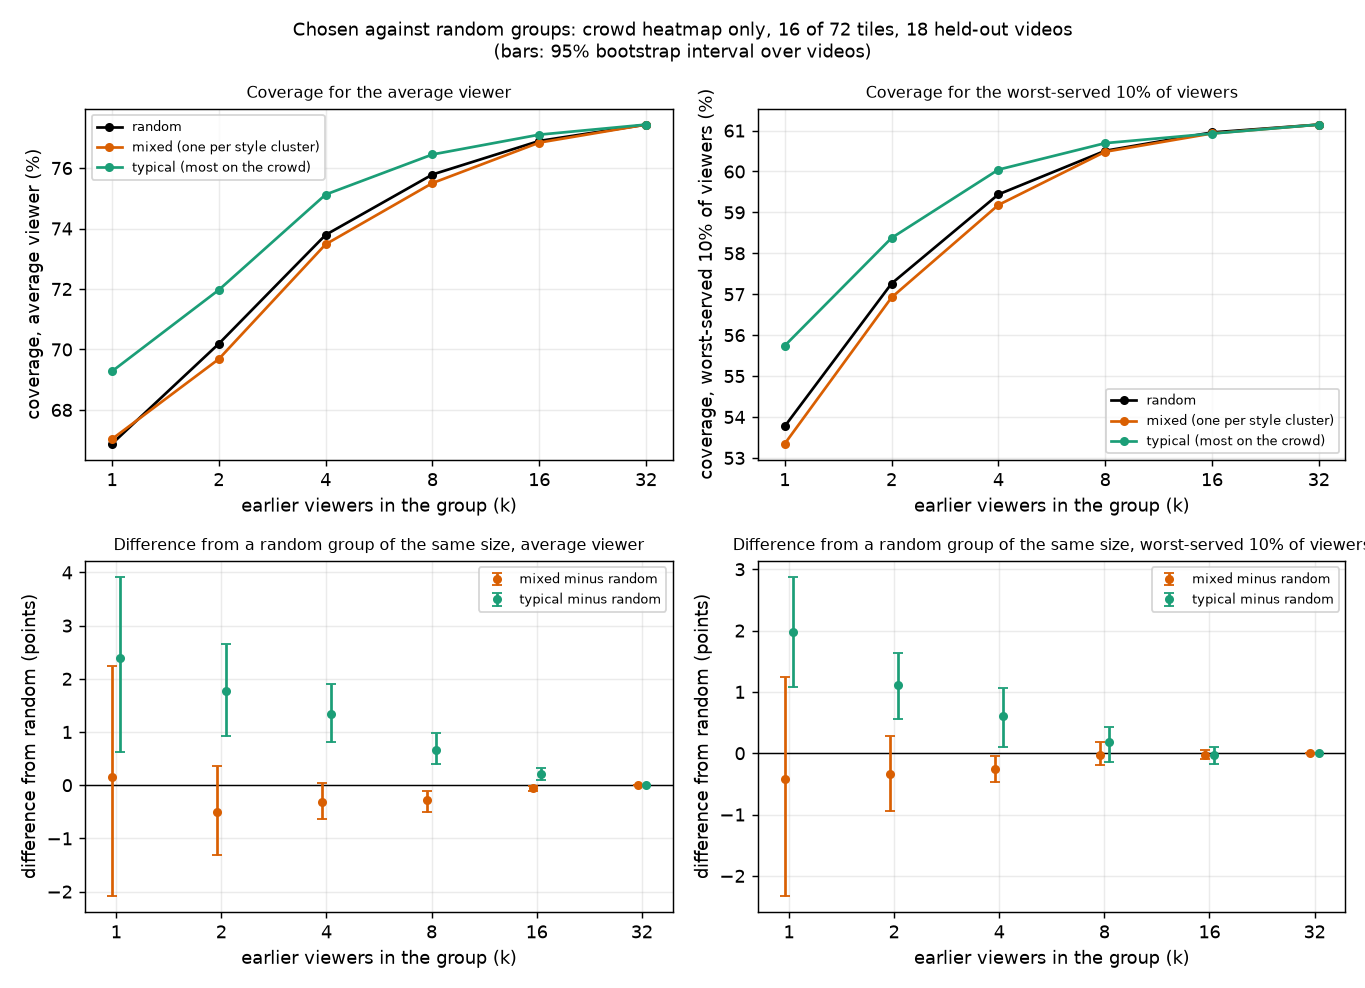
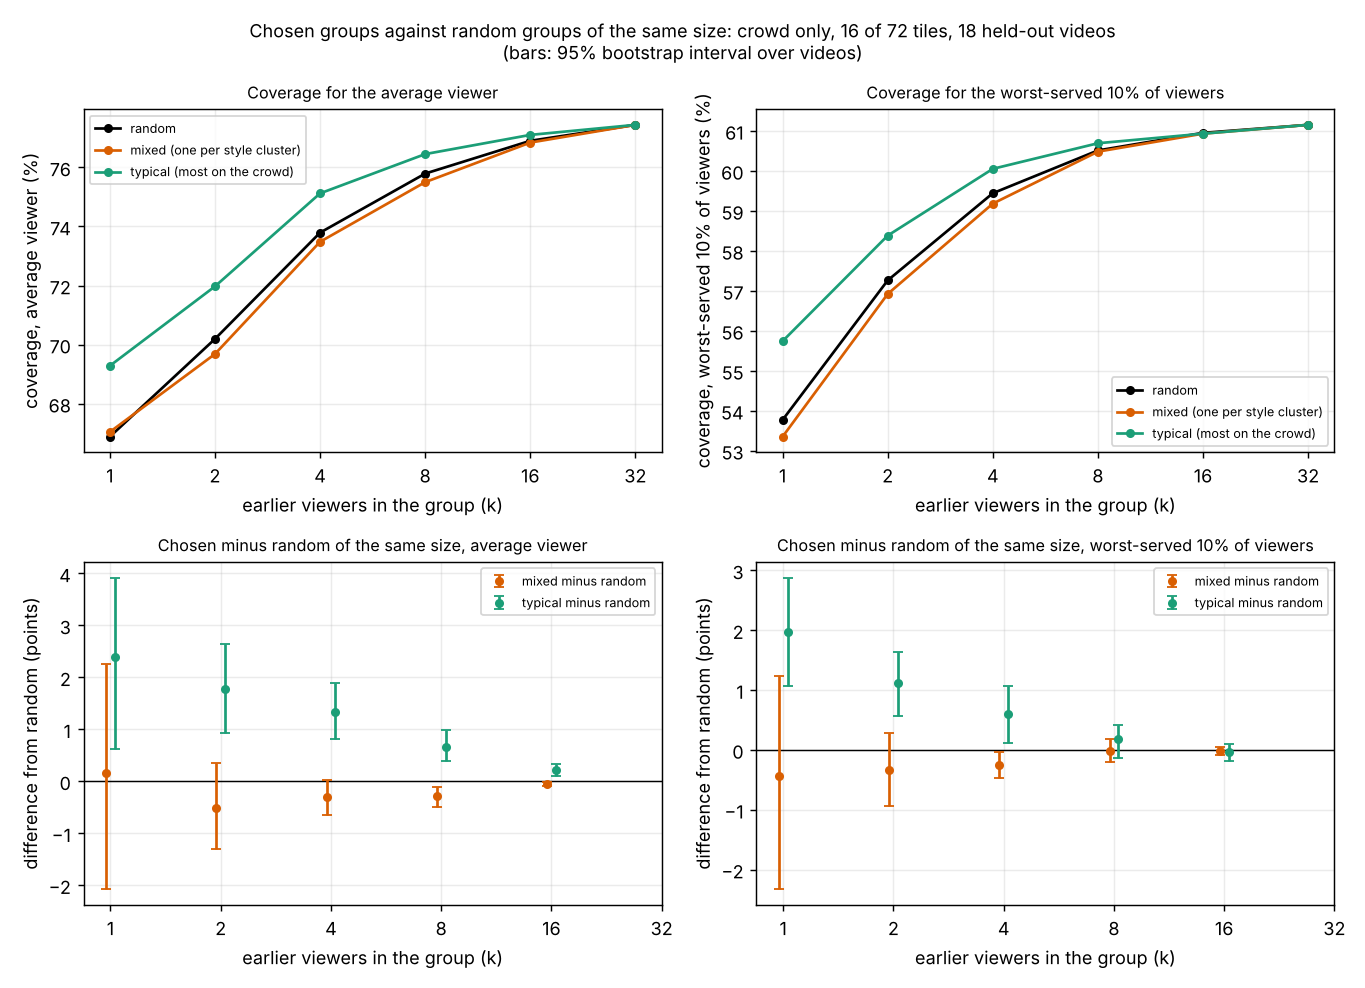
Drop the empty whole-pool rows, fix the main figure's clipped title, remove unused imports

diff --git a/scripts/chosen_vs_random.py b/scripts/chosen_vs_random.py
@@ -41,7 +41,7 @@ import matplotlib.pyplot as plt
 import numpy as np
 import pandas as pd
 
-from src import data, evaluate, metrics, parse, predict, styles
+from src import data, evaluate, parse, styles
 
 STABLE_ENOUGH = 0.3  # split-half correlation below this means "not a trait"
 ARMS = ("random", "mixed", "typical")
@@ -144,10 +144,18 @@ def fmt_diff(row, scale: float = 100, digits: int = 1) -> str:
             f"{row['videos_above_zero']}/{row['videos']}")
 
 
+def whole_pool(diff: pd.DataFrame) -> set[int]:
+    """Group sizes at which the group is the whole pool: every arm picks the same viewers, so every
+    difference and interval is exactly zero. These rows say nothing and are left out."""
+    zero = (diff[["difference", "lo", "hi"]] == 0).all(axis=1)
+    return {int(k) for k, all_zero in zero.groupby(diff["k"]).all().items() if all_zero}
+
+
 def diff_table(diff: pd.DataFrame, method: str, ks) -> list[str]:
     d = diff[diff["method"] == method].set_index(["arm", "k", "metric"])
     lines = ["| k | Arm | Coverage, average viewer | Coverage, worst 10% | Poor seconds per minute, worst 10% |", "|---|---|---|---|---|"]
-    for k in ks:
+    skip = whole_pool(diff)
+    for k in [k for k in ks if k not in skip]:
         for arm in ARMS[1:]:
             if (arm, k, "coverage") not in d.index:
                 continue
@@ -183,8 +191,8 @@ def render(summary: pd.DataFrame, diff: pd.DataFrame, diff_same: pd.DataFrame, a
         "",
         "Each cell is the mean difference over videos, its 95% bootstrap interval over videos, and the",
         "number of videos in which the arm beat random. Coverage is in percentage points, where above",
-        "zero is better. Poor seconds are per minute, where below zero is better. At k = 32 the group is",
-        "the whole pool, so every arm is the same and the row is left out.",
+        "zero is better. Poor seconds are per minute, where below zero is better. When k is the whole",
+        "pool (32), every arm picks the same viewers, so that row is left out.",
         "",
         "### Crowd only",
         "",
@@ -224,14 +232,14 @@ def figure(summary: pd.DataFrame, diff: pd.DataFrame, path: Path, args):
         ax = axes[1, col]
         ax.axhline(0, color="black", lw=0.8)
         for offset, arm in ((-0.04, "mixed"), (0.04, "typical")):
-            kk = [k for k in ks if (arm, k, metric) in d.index]
+            kk = [k for k in ks if (arm, k, metric) in d.index and k not in whole_pool(diff)]
             mean = np.array([100 * d.loc[(arm, k, metric), "difference"] for k in kk])
             lo = np.array([100 * d.loc[(arm, k, metric), "lo"] for k in kk])
             hi = np.array([100 * d.loc[(arm, k, metric), "hi"] for k in kk])
             x = np.array(kk) * 2 ** offset
             ax.errorbar(x, mean, yerr=[mean - lo, hi - mean], fmt="o", color=ARM_COLOUR[arm], capsize=3, ms=4, label=f"{arm} minus random")
         ax.set_ylabel("difference from random (points)")
-        ax.set_title(f"Difference from a random group of the same size, {who}", fontsize=9)
+        ax.set_title(f"Chosen minus random of the same size, {who}", fontsize=9)
     for ax in axes.ravel():
         ax.set_xscale("log", base=2)
         ax.set_xticks(ks)
@@ -239,8 +247,8 @@ def figure(summary: pd.DataFrame, diff: pd.DataFrame, path: Path, args):
         ax.set_xlabel("earlier viewers in the group (k)")
         ax.grid(alpha=0.25)
         ax.legend(fontsize=7)
-    fig.suptitle(f"Chosen against random groups: crowd heatmap only, {args.budget} of 72 tiles, 18 held-out videos\n"
-                 "(bars: 95% bootstrap interval over videos)", fontsize=10)
+    fig.suptitle(f"Chosen groups against random groups of the same size: crowd only, {args.budget} of 72 tiles, "
+                 "18 held-out videos\n(bars: 95% bootstrap interval over videos)", fontsize=10)
     fig.tight_layout()
     fig.savefig(path, dpi=130)
     plt.close(fig)
@@ -257,9 +265,16 @@ def main(argv=None) -> int:
     p.add_argument("--budget", type=int, default=evaluate.BUDGET)
     p.add_argument("--jobs", type=int, default=6)
     p.add_argument("--check-only", action="store_true", help="stop after the style check")
+    p.add_argument("--figure-only", action="store_true",
+                   help="redraw the figure from the saved CSVs in --out, without recomputing (the CSVs are "
+                        "rounded, so the tables are not rewritten from them)")
     args = p.parse_args(argv)
     out, cache = Path(args.out), Path(args.cache)
     out.mkdir(parents=True, exist_ok=True)
+    if args.figure_only:
+        figure(pd.read_csv(out / "chosen_vs_random.csv"), pd.read_csv(out / "chosen_vs_random_diff.csv"),
+               out / "chosen_vs_random.png", args)
+        return 0
 
     features = pd.concat([styles.video_features(cache, v) for v in data.all_videos()], ignore_index=True)
     features.round(4).to_csv(out / "style_features.csv", index=False, lineterminator="\n")

diff --git a/tests/test_chosen_vs_random.py b/tests/test_chosen_vs_random.py
@@ -86,3 +86,17 @@ def test_script_end_to_end(tmp_path):
                  "chosen_vs_random_same_experiment_diff.csv"):
         assert (out / name).exists()
     assert len(pd.read_csv(out / "style_features.csv")) == 18 * 12
+
+
+def test_whole_pool_rows_are_found_and_left_out_of_the_tables():
+    rows = []
+    for k, value in ((4, -0.003), (32, 0.0)):
+        for arm in ("mixed", "typical"):
+            for metric in evaluate.METRICS:
+                rows.append({"method": "crowd", "arm": arm, "k": k, "metric": metric, "difference": value,
+                             "lo": value - (0.001 if k == 4 else 0), "hi": value + (0.001 if k == 4 else 0),
+                             "videos_above_zero": 5 if k == 4 else 0, "videos": 18})
+    diff = pd.DataFrame(rows)
+    assert chosen_vs_random.whole_pool(diff) == {32}
+    table = "\n".join(chosen_vs_random.diff_table(diff, "crowd", [4, 32]))
+    assert "| 4 | mixed |" in table and "| 32 |" not in table

diff --git a/scripts/why_not_mixed.py b/scripts/why_not_mixed.py
@@ -27,7 +27,7 @@ import numpy as np
 import pandas as pd
 
 from scripts import chosen_vs_random
-from src import data, evaluate, metrics, parse, predict, styles
+from src import data, evaluate, metrics, parse, styles
 
 BUDGETS = (12, 24)
 THIRDS = ("calm", "middle", "active")

diff --git a/tests/test_baselines.py b/tests/test_baselines.py
@@ -1,5 +1,4 @@
 """The baselines script: budget rule, blend-weight tuning and outputs."""
-import numpy as np
 import pandas as pd
 
 from scripts import baselines

diff --git a/results/chosen_vs_random.md b/results/chosen_vs_random.md
@@ -19,8 +19,8 @@ the same 16 test viewers. Style comes from the other 17 videos.
 
 Each cell is the mean difference over videos, its 95% bootstrap interval over videos, and the
 number of videos in which the arm beat random. Coverage is in percentage points, where above
-zero is better. Poor seconds are per minute, where below zero is better. At k = 32 the group is
-the whole pool, so every arm is the same and the row is left out.
+zero is better. Poor seconds are per minute, where below zero is better. When k is the whole
+pool (32), every arm picks the same viewers, so that row is left out.
 
 ### Crowd only
 
@@ -36,8 +36,6 @@ the whole pool, so every arm is the same and the row is left out.
 | 8 | typical | +0.7 (+0.4 to +1.0), 17/18 | +0.2 (-0.1 to +0.4), 15/18 | -0.2 (-0.4 to +0.0), 6/18 |
 | 16 | mixed | -0.1 (-0.1 to -0.0), 7/18 | -0.0 (-0.1 to +0.0), 6/18 | -0.0 (-0.0 to +0.0), 10/18 |
 | 16 | typical | +0.2 (+0.1 to +0.3), 17/18 | -0.0 (-0.2 to +0.1), 11/18 | -0.0 (-0.1 to +0.1), 8/18 |
-| 32 | mixed | +0.0 (+0.0 to +0.0), 0/18 | +0.0 (+0.0 to +0.0), 0/18 | +0.0 (+0.0 to +0.0), 0/18 |
-| 32 | typical | +0.0 (+0.0 to +0.0), 0/18 | +0.0 (+0.0 to +0.0), 0/18 | +0.0 (+0.0 to +0.0), 0/18 |
 
 ### Blend of own motion and crowd, 2 seconds ahead
 
@@ -53,8 +51,6 @@ the whole pool, so every arm is the same and the row is left out.
 | 8 | typical | +0.1 (-0.0 to +0.1), 14/18 | +0.0 (-0.2 to +0.2), 13/18 | -0.1 (-0.2 to +0.0), 6/18 |
 | 16 | mixed | -0.0 (-0.0 to +0.0), 7/18 | -0.0 (-0.1 to +0.0), 9/18 | +0.0 (-0.0 to +0.0), 11/18 |
 | 16 | typical | +0.0 (-0.0 to +0.1), 11/18 | -0.1 (-0.3 to +0.1), 11/18 | -0.1 (-0.1 to +0.0), 5/18 |
-| 32 | mixed | +0.0 (+0.0 to +0.0), 0/18 | +0.0 (+0.0 to +0.0), 0/18 | +0.0 (+0.0 to +0.0), 0/18 |
-| 32 | typical | +0.0 (+0.0 to +0.0), 0/18 | +0.0 (+0.0 to +0.0), 0/18 | +0.0 (+0.0 to +0.0), 0/18 |
 
 ### Blend, 5 seconds ahead
 
@@ -70,8 +66,6 @@ the whole pool, so every arm is the same and the row is left out.
 | 8 | typical | +0.2 (+0.1 to +0.3), 15/18 | -0.1 (-0.6 to +0.3), 13/18 | +0.2 (-0.2 to +0.6), 11/18 |
 | 16 | mixed | -0.0 (-0.1 to +0.0), 5/18 | +0.0 (-0.1 to +0.1), 8/18 | -0.0 (-0.1 to +0.0), 11/18 |
 | 16 | typical | +0.1 (-0.0 to +0.1), 14/18 | -0.2 (-0.5 to +0.1), 9/18 | +0.1 (-0.1 to +0.3), 9/18 |
-| 32 | mixed | +0.0 (+0.0 to +0.0), 0/18 | +0.0 (+0.0 to +0.0), 0/18 | +0.0 (+0.0 to +0.0), 0/18 |
-| 32 | typical | +0.0 (+0.0 to +0.0), 0/18 | +0.0 (+0.0 to +0.0), 0/18 | +0.0 (+0.0 to +0.0), 0/18 |
 
 ## Same comparison with style taken from the same experiment only (crowd only)
 
@@ -90,5 +84,3 @@ so nothing depends on viewer numbers matching across the two experiments.
 | 8 | typical | +0.8 (+0.5 to +1.2), 17/18 | +0.2 (-0.4 to +0.5), 14/18 | -0.0 (-0.2 to +0.2), 7/18 |
 | 16 | mixed | -0.2 (-0.4 to -0.1), 3/18 | +0.1 (-0.0 to +0.4), 9/18 | -0.0 (-0.1 to +0.1), 6/18 |
 | 16 | typical | +0.3 (+0.1 to +0.5), 18/18 | -0.1 (-0.4 to +0.1), 12/18 | +0.0 (-0.1 to +0.1), 9/18 |
-| 32 | mixed | +0.0 (+0.0 to +0.0), 0/18 | +0.0 (+0.0 to +0.0), 0/18 | +0.0 (+0.0 to +0.0), 0/18 |
-| 32 | typical | +0.0 (+0.0 to +0.0), 0/18 | +0.0 (+0.0 to +0.0), 0/18 | +0.0 (+0.0 to +0.0), 0/18 |

diff --git a/CHANGELOG.md b/CHANGELOG.md
@@ -187,3 +187,18 @@ README and notebook.
 - The first draft of the README was 1,243 words. I cut it to under 1,200.
 - The notebook in `notebooks/` runs the pipeline with 20 trials per video and writes
   to `results_quick/`, so it never overwrites the files the README cites.
+
+## 2026-11-15: check before sending
+
+Every README number was traced to `results/` (the checker passes) and every claim
+read against its table. Nothing in the README changed. Fixed:
+
+- `results/chosen_vs_random.md` said the k = 32 rows were left out, but printed them
+  (all zeros, because at k = 32 every arm picks the whole pool). The script now drops
+  them, found by the rule "every difference and interval is exactly zero", with a test.
+  The rows were removed from the current report to match; no other line changed.
+- `results/chosen_vs_random.png`: a panel title ran off the edge, and the k = 32
+  differences were drawn as points with no interval. Titles are shorter and those
+  points are gone. The figure was redrawn from the saved CSVs with the new
+  `--figure-only` option; the tables are not rewritten from the CSVs, which are rounded.
+- Removed unused imports flagged by the linter.
